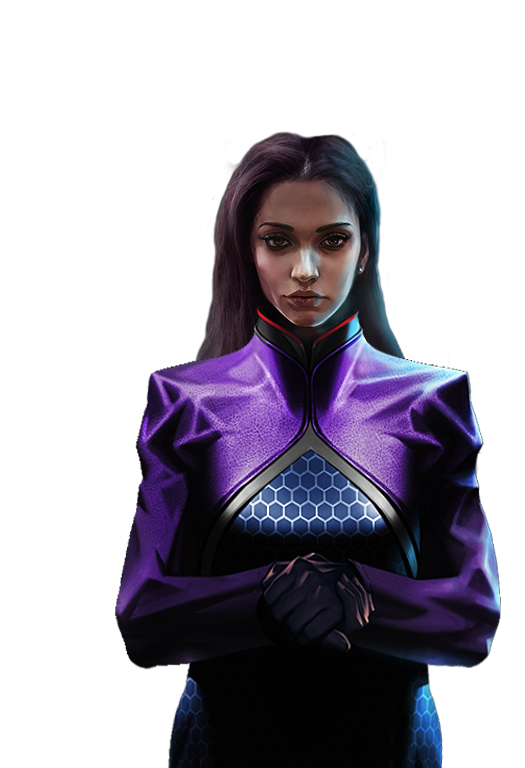
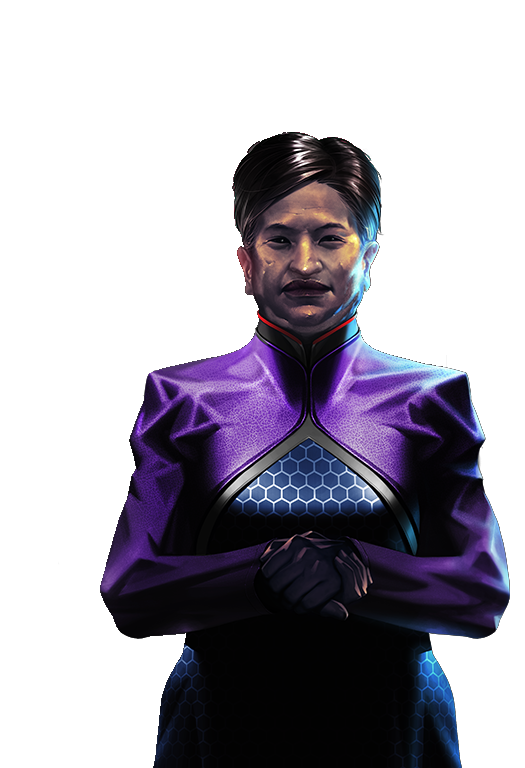
Restored Vanilla Human diplomat. Added option to select the younger one (default value)

Changed region(s): [[0.1829, 0.1562, 0.9752, 1.0]]

diff --git a/src/rotp/util/AnimationManager.java b/src/rotp/util/AnimationManager.java
@@ -26,29 +26,40 @@ import java.util.ArrayList;
 import java.util.HashMap;
 import java.util.List;
 import rotp.Rotp;
+import rotp.model.game.IGameOptions;
 import rotp.ui.UserPreferences;
 
 public enum AnimationManager implements Base {
     INSTANCE;
     public static AnimationManager current()  { return INSTANCE; }
 
-    private static final String explosionBaseDir = "images/explosions/";
+    private static final String explosionBaseDir  = "images/explosions/";
     private static final String explosionListFile = "images/explosions/listing.txt";
     private static final String animationListFile = "data/animations.txt";
 
     private static final HashMap<Integer,List<BufferedImage>> cachedImages = new HashMap<>();
     private static final HashMap<Integer,List<BufferedImage>> activeImages = new HashMap<>();
 
-
     private final HashMap<String, Animation> animations = new HashMap<>();
     private final HashMap<String, List<String>> explosions = new HashMap<>();
 
-    private static int imgKey(int w, int h) {
-        return (w*1000)+h;
-    }
+//    private static int imgKey(int w, int h) {
+//        return (w*1000)+h;
+//    }
     private AnimationManager() {
         loadAnimationList(animationListFile);
         loadExplosions();
+    }
+    private String altKey (String key) {
+    	if (IGameOptions.showAlternateAnimation.get()) {
+        	String altKey = key+"Alt";
+        	if (animations.get(altKey) == null)
+        		return key;
+        	else
+        		return altKey;    		
+    	}
+    	else
+    		return key;
     }
     public boolean animationsDisabled()  { return lowMemory(); }
     @Override
@@ -58,7 +69,7 @@ public enum AnimationManager implements Base {
     }
     public void reset(String animationSpecifier) {
         List<String> specs = this.substrings(animationSpecifier, ',');
-        String key = specs.get(0);
+        String key = altKey(specs.get(0));
 
         Animation anim = animations.get(key);
         if (anim != null)
@@ -69,7 +80,8 @@ public enum AnimationManager implements Base {
         if ((key == null) || key.isEmpty())
             return results;
 
-        Rectangle area = null;
+        key = altKey(key);
+		//Rectangle area = null;
         Animation anim = animations.get(key);
 
         for (AnimationImage imgSpec: anim.images) {
@@ -84,8 +96,9 @@ public enum AnimationManager implements Base {
             return;
 
         List<String> specs = substrings(animationSpecifier, ',');
-        String key = specs.get(0);
-        Rectangle area = null;
+        String key = altKey(specs.get(0));
+        @SuppressWarnings("unused")
+		Rectangle area = null;
 
         try {
             area = specs.size() > 1 ? parseArea(specs.get(1)) : null;
@@ -123,7 +136,7 @@ public enum AnimationManager implements Base {
             return null;
 
         List<String> specs = substrings(animationSpecifier, ',');
-        String key = specs.get(0);
+        String key = altKey(specs.get(0));
         Rectangle area = null;
 
         try {

diff --git a/src/rotp/model/game/IMainOptions.java b/src/rotp/model/game/IMainOptions.java
@@ -39,6 +39,7 @@ import java.util.LinkedList;
 import javax.swing.JFileChooser;
 
 import rotp.Rotp;
+import rotp.ui.RotPUI;
 import rotp.ui.game.BaseModPanel;
 import rotp.ui.util.IParam;
 import rotp.ui.util.ParamBoolInt;
@@ -304,13 +305,24 @@ public interface IMainOptions extends IBaseOptsTools {
 	ParamBoolean compactOptionOnly	= new ParamBoolean(MOD_UI, "COMPACT_OPTION_ONLY", false)
 	{	{ isCfgFile(true); } };
 
+	ParamBoolean showAlternateAnimation	= new ParamBoolean(MOD_UI, "SHOW_ALT_ANIMATION", true)
+	{
+		{ isCfgFile(true); }
+		@Override public Boolean set(Boolean val) {
+			super.set(val);
+			RotPUI.setupRaceUI().resetRaceMug();
+			return val;
+		}
+	};
+
+
 	// ==================== GUI List Declarations ====================
 	//
 	LinkedList<IParam> mainOptionsUI  = new LinkedList<>(
 			Arrays.asList(
 					displayMode, graphicsMode, texturesMode, sensitivityMode, selectedScreen, disableAdvisor,
 					null,
-					soundVolume, musicVolume, showMemory, backupTurns, saveDirectory,
+					soundVolume, musicVolume, showMemory, backupTurns, saveDirectory, showAlternateAnimation,
 					null,
 					mapFontFactor, showNameMinFont, showInfoFontRatio, useFusionFont, galaxyPreviewColorStarsSize,
 					null,

diff --git a/src/rotp/ui/game/SetupRaceUI.java b/src/rotp/ui/game/SetupRaceUI.java
@@ -117,6 +117,10 @@ public final class SetupRaceUI extends BaseModPanel implements MouseWheelListene
         initTextField(leaderName);
         initTextField(shipSetTxt); // BR:
     }
+    public void resetRaceMug() {
+    	for (int i=0;i<racemugs.length;i++)
+    		racemugs[i] = null;
+    }
 	@Override protected void singleInit() { paramList = optionsRace; }
     @Override public void init() {
     	super.init();

diff --git a/releaseNotesBR.md b/releaseNotesBR.md
@@ -67,6 +67,10 @@ Last updates:
   - Middle Click on the galaxy preview will reset it's value to "Auto"
 - Removed "Max Spacing Multiplier" and "Maximize Spacing".
   - Too complex, and replaced by "Empire Spacing".
+- Restored Moo1 Race names.
+- Restored Vanilla Human diplomat.
+  - Added option to select the younger one (default value)
+  
 
 Last Fixes:
 - New Governor Panel don't crash any more on Apple OS.
@@ -96,7 +100,6 @@ Last Fixes:
   - Improved guide for "Max Spacing Multiplier"
 - Fixed eco reallocation when all other slides are locked.
 - Fixed occasional wrong player icon on Setup Galaxy panel.
-- Restored Moo1 Race names.
 
 
 Last Anouuncement:

diff --git a/README.md b/README.md
@@ -61,6 +61,8 @@ Later:
 
 2023.06.23 (Xilmi)
 - Restored Moo1 Race names.
+- Restored Vanilla Human diplomat.
+  - Added option to select the younger one (default value).
 
 2023.06.23 (BR)
 - Added a 10 ly grid to the galaxy preview.
